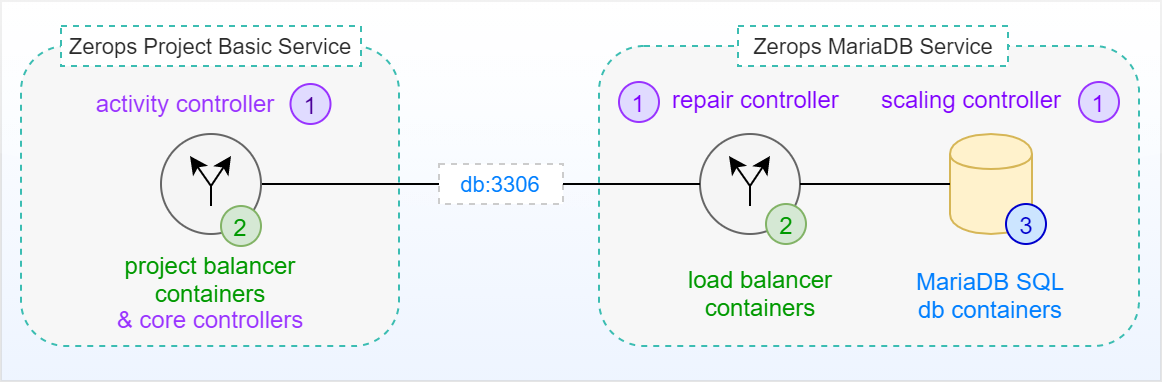
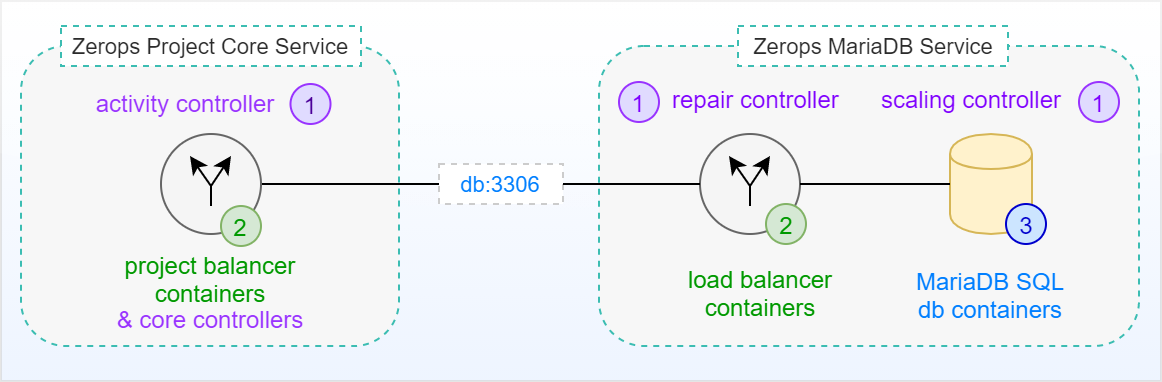
docs(service): project core of MariaDB service

Changed region(s): [[0.062, 0.0864, 0.3098, 0.144]]

diff --git a/src/documentation/services/databases.md b/src/documentation/services/databases.md
@@ -12,7 +12,7 @@ The following image shows a simplified schema of a standalone Zerops MariaDB Ser
 
 ![Zerops MariaDB Service](./images/Zerops-MariaDB-Service-Base.png "Zerops MariaDB Service")
 
-Zerops Project Basic Service is the hearth of each Zerops project. It has its own [pricing logic](/documentation/overview/pricing.html#projects). The essential parts are two running instances of the **project balancer** (one at the active state and the other at standby backup state) through which all communication is passing (either related to the project's external environment or the private network), which ensures a high degree of reliability and stability for all traffic at any time. Each of them runs in a different container located on a **different physical machine**. An independent **activity controller** continuously monitors critical operating parameters of both project balancers. If the current active instance has any abnormalities, it activates the running standby backup instead. From an external perspective, this change is not noticeable in any way.
+Zerops Project Core Service is the hearth of each Zerops project. It has its own [pricing logic](/documentation/overview/pricing.html#projects). The essential parts are two running instances of the **project balancer** (one at the active state and the other at standby backup state) through which all communication is passing (either related to the project's external environment or the private network), which ensures a high degree of reliability and stability for all traffic at any time. Each of them runs in a different container located on a **different physical machine**. An independent **activity controller** continuously monitors critical operating parameters of both project balancers. If the current active instance has any abnormalities, it activates the running standby backup instead. From an external perspective, this change is not noticeable in any way.
 
 Zerops MariaDB Service shares the [same price structure](/documentation/overview/pricing.html#services) with other Zerops services. Here again, two instances of the **[load balancer (MaxScale)](https://mariadb.com/kb/en/maxscale)** (both at the active state) play a crucial role and parallelly control the routing of data reading requests, always to the least busy instance of the MariaDB database service or data writing requests to the primary one. The independent **scaling controller** monitors and controls [vertical scaling](/documentation/automatic-scaling/how-automatic-scaling-works.html#vertical-scaling) (vCPU, RAM, Disk) for all load balancer and MariaDB database containers. Because of the optimal performance reasons, the MariaDB cluster is always configured and run with 3 database instances, and [horizontal scaling](/documentation/automatic-scaling/how-automatic-scaling-works.html#horizontal-scaling) (number of containers) hasn't any role in this case. The independent **repair controller** is then responsible for removing those containers that exhibit abnormal behavior and replacing them with new ones.
 
